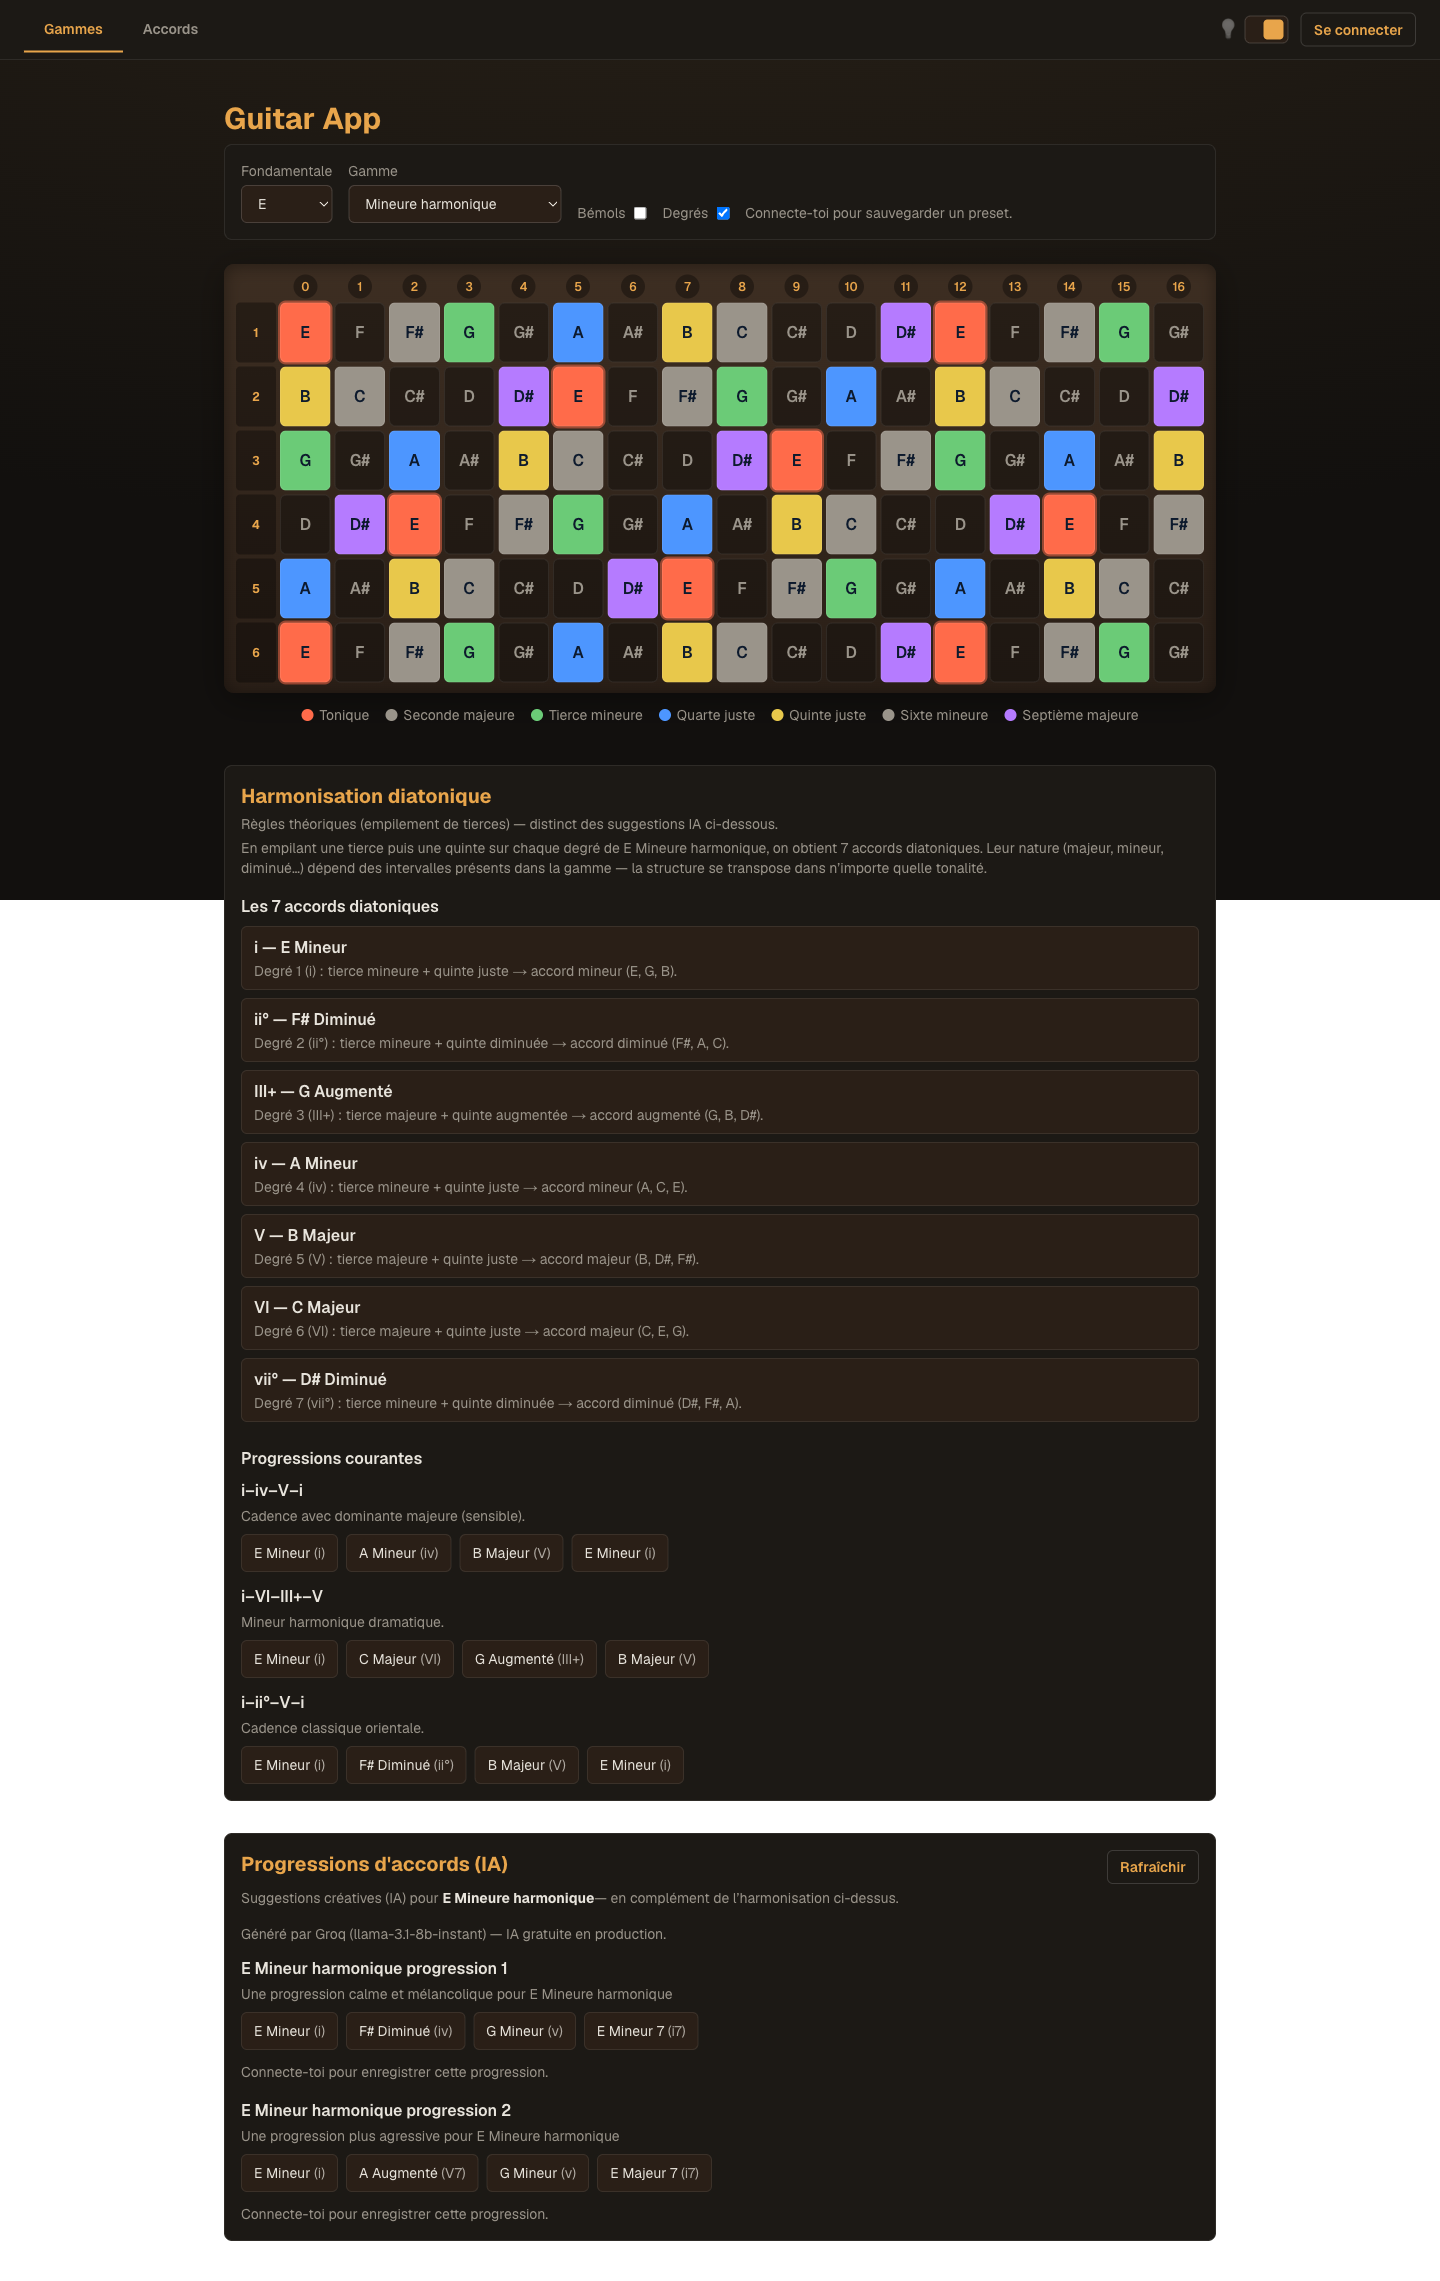
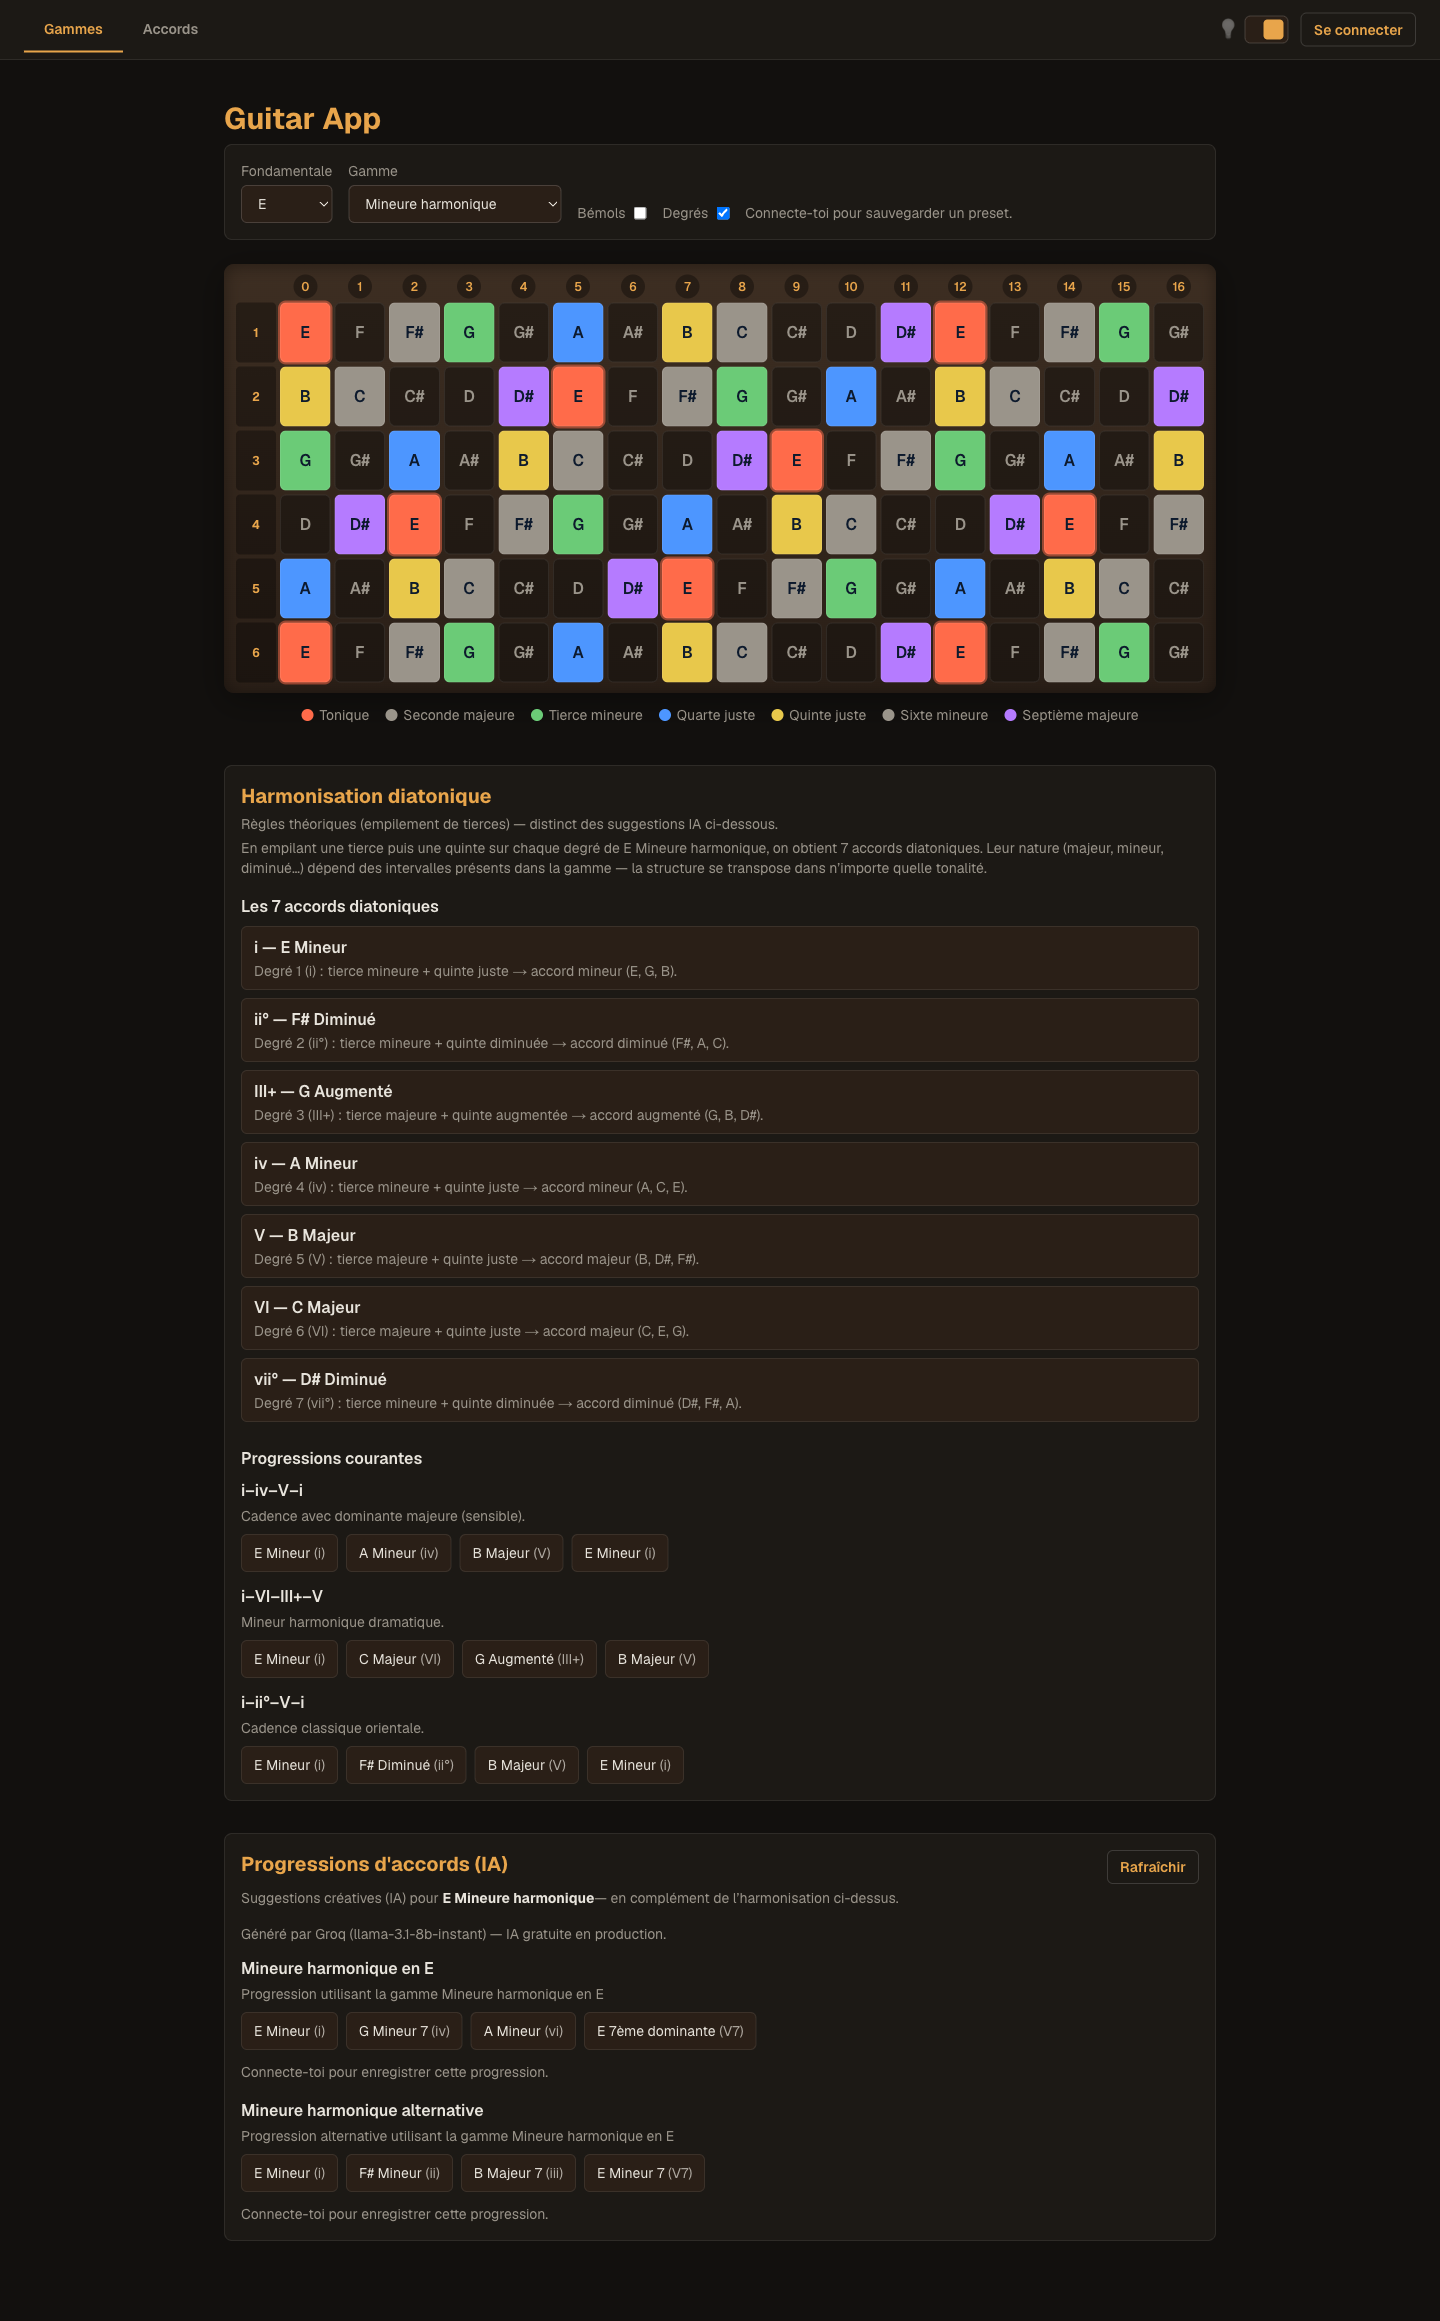
fix(ui): remove fixed background tear in full-page screenshots
Drop background-attachment: fixed and use a solid page background so long captures no longer show a white seam mid-page.

diff --git a/semaine-02-guitar-app/app/globals.css b/semaine-02-guitar-app/app/globals.css
@@ -56,16 +56,22 @@
   --font-mono: var(--font-geist-mono);
 }
 
+html {
+  background-color: var(--bg);
+}
+
 body {
-  background: radial-gradient(
+  background-color: var(--bg);
+  background-image: radial-gradient(
     ellipse 120% 80% at 50% -20%,
     var(--bg-glow),
     var(--bg)
   );
+  background-repeat: no-repeat;
+  background-size: 100% 100vh;
   color: var(--text);
   font-family: var(--font-geist-sans), Arial, sans-serif;
   min-height: 100vh;
-  background-attachment: fixed;
 }
 
 button:not(:disabled),
